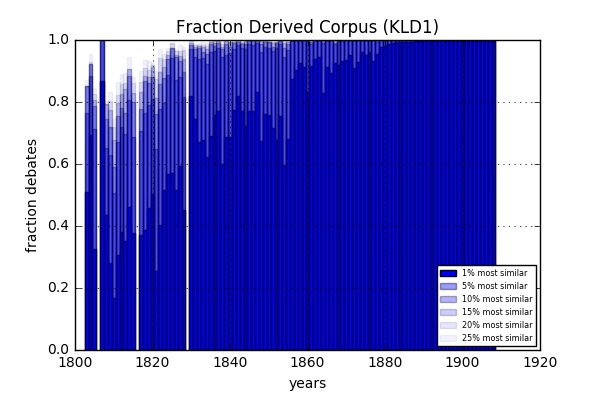
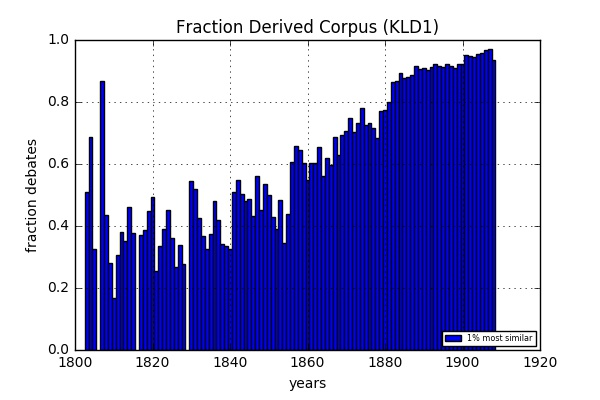
added overlapping timewindow methods and figures

Changed region(s): [[0.12, 0.09, 0.9, 0.87]]

diff --git a/src/eda.py b/src/eda.py
@@ -15,24 +15,28 @@ def agg_DC(dataframe):
     return(years, yearsagg)
 
 
+years_all = config.metadata.groupby(0).size().reset_index(name='count')
 years1, yearsagg1 = agg_DC(config.concat_df1)
 years5, yearsagg5 = agg_DC(config.concat_df5)
 years10, yearsagg10 = agg_DC(config.concat_df10)
 years15, yearsagg15 = agg_DC(config.concat_df15)
 years20, yearsagg20 = agg_DC(config.concat_df20)
 years25, yearsagg25 = agg_DC(config.concat_df25)
+years_overlap, yearsagg_overlap = agg_DC(config.concat_overlap)
 
 # fraction derived corpus per year
-plt.bar(yearsagg1['year'], yearsagg1['fraction'],
-        align='center', width=1, color='b', alpha=1, label='1% most similar')
-plt.bar(yearsagg5['year'], yearsagg5['fraction'],
-        align='center', width=1, color='b', alpha=.4, label='5% most similar')
-plt.bar(yearsagg10['year'], yearsagg10['fraction'],
-        align='center', width=1, color='b', alpha=.3, label='10% most similar')
-plt.bar(yearsagg15['year'], yearsagg15['fraction'],
-        align='center', width=1, color='b', alpha=.2, label='15% most similar')
-plt.bar(yearsagg20['year'], yearsagg20['fraction'],
-        align='center', width=1, color='b', alpha=.1, label='20% most similar')
+plt.bar(yearsagg_overlap['year'], yearsagg_overlap['fraction'], align='center',
+        width=1, color='b', alpha=1, label='overlap')
+plt.bar(yearsagg1['year'], yearsagg1['fraction'], align='center',
+        width=1, color='b', alpha=.4, label='1% most similar')
+plt.bar(yearsagg5['year'], yearsagg5['fraction'], align='center',
+        width=1, color='b', alpha=.3, label='5% most similar')
+plt.bar(yearsagg10['year'], yearsagg10['fraction'], align='center',
+        width=1, color='b', alpha=.2, label='10% most similar')
+plt.bar(yearsagg15['year'], yearsagg15['fraction'], align='center',
+        width=1, color='b', alpha=.1, label='15% most similar')
+plt.bar(yearsagg20['year'], yearsagg20['fraction'], align='center',
+        width=1, color='b', alpha=.05, label='20% most similar')
 plt.bar(yearsagg25['year'], yearsagg25['fraction'], align='center',
         width=1, color='b', alpha=.05, label='25% most similar')
 plt.title('Fraction Derived Corpus (KLD1)')
@@ -41,20 +45,22 @@ plt.xlabel('years')
 plt.legend(bbox_to_anchor=(1, 0),
            loc='lower right', ncol=1, fontsize='xx-small')
 plt.grid(True)
-plt.savefig('../images/fr_debates_year_KLD1.jpg')
+plt.savefig('../images/fr_overlapping_debates_year_KLD1.jpg')
 plt.show()
 
 # difference derived corpus per year
+plt.bar(yearsagg_overlap['year'], yearsagg_overlap['diff'],
+        align='center', width=1, color='b', alpha=.25, label='overlap')
 plt.bar(yearsagg1['year'], yearsagg1['diff'],
-        align='center', width=1, color='b', alpha=.1, label='1% most similar')
+        align='center', width=1, color='b', alpha=.3, label='1% most similar')
 plt.bar(yearsagg5['year'], yearsagg5['diff'],
-        align='center', width=1, color='b', alpha=.2, label='5% most similar')
+        align='center', width=1, color='b', alpha=.4, label='5% most similar')
 plt.bar(yearsagg10['year'], yearsagg10['diff'],
-        align='center', width=1, color='b', alpha=.3, label='10% most similar')
+        align='center', width=1, color='b', alpha=.5, label='10% most similar')
 plt.bar(yearsagg15['year'], yearsagg15['diff'],
-        align='center', width=1, color='b', alpha=.4, label='15% most similar')
+        align='center', width=1, color='b', alpha=.6, label='15% most similar')
 plt.bar(yearsagg20['year'], yearsagg20['diff'],
-        align='center', width=1, color='b', alpha=.5, label='20% most similar')
+        align='center', width=1, color='b', alpha=1, label='20% most similar')
 plt.bar(yearsagg25['year'], yearsagg25['diff'], align='center',
         width=1, color='b', alpha=1, label='25% most similar')
 plt.title('Difference Derived Corpus (KLD1)')
@@ -63,27 +69,55 @@ plt.xlabel('years')
 plt.legend(bbox_to_anchor=(1, 1),
            loc='upper right', ncol=1, fontsize='xx-small')
 plt.grid(True)
-plt.savefig('../images/diff_derived_year_KLD1.jpg')
+plt.savefig('../images/diff_overlapping_derived_year_KLD1.jpg')
 plt.show()
 
 # number derived corpus per year
+plt.bar(years_overlap[0], years_overlap['count'], align='center', width=1,
+        color='b', alpha=1, label='overlap')
 plt.bar(years1[0], years1['count'], align='center', width=1,
-        color='b', alpha=1, label='1% most similar')
+        color='b', alpha=.4, label='1% most similar')
 plt.bar(years5[0], years5['count'], align='center', width=1,
-        color='b', alpha=.4, label='5% most similar')
+        color='b', alpha=.3, label='5% most similar')
 plt.bar(years10[0], years10['count'], align='center', width=1,
-        color='b', alpha=.3, label='10% most similar')
+        color='b', alpha=.2, label='10% most similar')
 plt.bar(years15[0], years15['count'], align='center', width=1,
-        color='b', alpha=.2, label='15% most similar')
+        color='b', alpha=.1, label='15% most similar')
 plt.bar(years20[0], years20['count'], align='center', width=1,
-        color='b', alpha=.1, label='20% most similar')
+        color='b', alpha=.05, label='20% most similar')
 plt.bar(years25[0], years25['count'], align='center', width=1,
-        color='b', alpha=.05, label='25% most similar')
+        color='b', alpha=0.01, label='25% most similar')
 plt.title("Number Derived Corpus (KLD1)")
 plt.ylabel("number debates")
 plt.xlabel("years")
 plt.legend(bbox_to_anchor=(0, 1),
            loc='upper left', ncol=1, fontsize='xx-small')
 plt.grid(True)
-plt.savefig("../images/nr_derived_year_KLD1.jpg")
+plt.savefig("../images/nr_overlap_derived_year_KLD1.jpg")
 plt.show()
+
+# plot nr overlapping debates between time periods
+p = config.overlap_nums
+plt.figure(figsize=(10, 3))
+plt.bar(p.index, p['num_overlap'], align='center', width=1,
+        color='b', alpha=1, label='overlapping debates')
+plt.bar(p.index, p['num_total'], align='center', width=1,
+        color='b', alpha=0.25, label='all debates')
+xticks = p['years']
+plt.xticks(p.index, xticks, rotation=90)
+plt.title("Overlap between Adjacent 5-year Time Windows")
+plt.ylabel("number debates")
+plt.xlabel("time windows")
+plt.legend(bbox_to_anchor=(0, 1),
+           loc='upper left', ncol=1, fontsize='xx-small')
+plt.grid(True)
+plt.savefig("../images/nr_overlap_timewindows_KLD1.jpg")
+plt.show()
+
+# get top 5 years - get top debates in each year
+top_years = (yearsagg_overlap[yearsagg_overlap['fraction'] > 0.95]['year'].
+             values.tolist())
+tydebates = config.concat_overlap[config.concat_overlap[0].isin(top_years)]
+config.speechacts
+
+# TODO: get top 5 speakers - get top debates for each speaker

diff --git a/src/threshold_debates.py b/src/threshold_debates.py
@@ -32,6 +32,46 @@ def threshold(path, percent):
                   sep='\t', header=False, index=False)
 
 
+def overlap_timewindows(path):
+    '''
+    finds overlapping debates in adjacent time windows
+    '''
+    years_list = []
+    num_overlap = []
+    num_total = []
+    overlap_list = []
+
+    timewindows = glob2.glob(path)
+    pairs = ([[timewindows[i], timewindows[i + 1]]
+             for i in range(len(timewindows) - 1)])
+
+    for [current_f, next_f] in pairs:
+        # get year_start from filename
+        path = os.path.splitext(current_f)[0]
+        path_split = os.path.basename(path).split('_')
+        year_start = path_split[2]
+        year_end = int(year_start) + 6
+
+        # get overlapping debate titles
+        f1 = pd.read_csv(current_f, sep='\t', header=None)
+        f2 = pd.read_csv(next_f, sep='\t', header=None)
+        overlap = f1.merge(f2, how='inner', on=[0, 1, 2])
+        overlap.to_csv(config.path_output +
+                       'DC/overlap_{}_{}.txt'.format(year_start, year_end),
+                       sep='\t', header=False, index=False)
+
+        # count overlapping and total debates
+        years_list.append(year_start + ' - ' + str(year_end))
+        num_overlap.append(overlap.shape[0])
+        num_total.append(f1.shape[0] + f2.shape[0])
+        overlap_list.append(overlap[2])
+
+    overlap_nums = pd.DataFrame({'years': years_list,
+                                 'num_overlap': num_overlap,
+                                 'num_total': num_total})
+    return(overlap_nums)
+
+
 def concat_timewindows(path):
     '''
     concatenates derived corpus dataframes and removes duplicate rows
@@ -69,3 +109,11 @@ config.concat_df20 = concat_timewindows(config.path_output +
                                         'DC/debates_*_0.2.txt')
 config.concat_df25 = concat_timewindows(config.path_output +
                                         'DC/debates_*_0.25.txt')
+
+# find overlap between timewindows for 1% tranche
+config.overlap_nums = overlap_timewindows(config.path_output +
+                                          'DC/debates_kld1_*0.01.txt')
+
+# concatenate overlapping debates
+config.concat_overlap = concat_timewindows(config.path_output +
+                                           'DC/overlap_*.txt')

diff --git a/src/wordcloud_DC.py b/src/wordcloud_DC.py
@@ -3,13 +3,18 @@ import matplotlib.pyplot as plt
 import pandas as pd
 import glob2
 import config
-from wordcloud import WordCloud
+from wordcloud import WordCloud, STOPWORDS
 
 
 # test wordcloud on 1% threshold
 # lowercase debate titles and concatenate to giant text string
 text = config.concat_df1[2].apply(lambda x: x.lower())
 text = text.str.cat(sep=' ')
+
+STOPWORDS.add('question')
+STOPWORDS.add('bill')
+STOPWORDS.add('second')
+STOPWORDS.add('reading')
 
 # create the wordcloud
 wordcloud = WordCloud().generate(text)
@@ -21,7 +26,7 @@ plt.savefig('../images/wordcloud_{}.jpg'.format(1))
 plt.show()
 
 
-# save wordclouds for each threshold
+# save wordclouds for each threshold 5-25%
 concat_tsvs = [config.concat_df5, config.concat_df10,
                config.concat_df15, config.concat_df20, config.concat_df25]
 
@@ -72,3 +77,25 @@ def wordcloud_timewindow(path):
 
 
 wordcloud_timewindow(config.path_output + 'DC/debates_kld1_*_0.01.txt')
+wordcloud_timewindow(config.path_output + 'DC/overlap_*.txt')
+
+
+def wordcloud_decade(concat_tsv):
+    # lowercase debate titles and concatenate to giant text string
+    text = concat_tsv
+    text[2] = text[2].map(lambda x: x.lower())
+    text = (text.groupby([1]).aggregate({2: lambda x: x.str.cat(sep=' ')}).
+            reset_index())
+
+    for index, row in text.iterrows():
+        # create the wordcloud
+        wordcloud = WordCloud().generate(row[2])
+
+        # generate the image
+        plt.imshow(wordcloud, interpolation='bilinear')
+        plt.axis('off')
+        plt.savefig('../images/wordcloud_{}.jpg'.format(row[1]))
+        # plt.show()
+
+
+wordcloud_decade(config.concat_overlap)

diff --git a/src/config.py b/src/config.py
@@ -2,7 +2,7 @@ import pandas as pd
 
 
 # set input/output paths
-path_speechact = '/Users/alee35/land-wars-devel-data/03stemmed_speech_acts/'
+path_raw = '/Users/alee35/land-wars-devel-data/02speeches_dates/'
 path_input = '/Users/alee35/land-wars-devel-data/04stemmed_bills/'
 path_output = '/Users/alee35/land-wars-devel-data/05seed2/'
 
@@ -10,7 +10,6 @@ path_output = '/Users/alee35/land-wars-devel-data/05seed2/'
 with open(path_input + 'long_bills_stemmed_metadata.tsv', 'r') as f:
     metadata = pd.read_csv(f, sep='\t', header=None)
 
-# read speech act metadata
-with open(path_speechact + 'long_dNMF_stemmed.txt', 'r') as f:
-    speechacts = pd.read_csv(f, sep='\t', header=None)
-speechacts
+# read raw hansard
+with open(path_raw + 'membercontributions-20161026.tsv', 'r') as f:
+    text = pd.read_csv(f, sep='\t', header=None)
